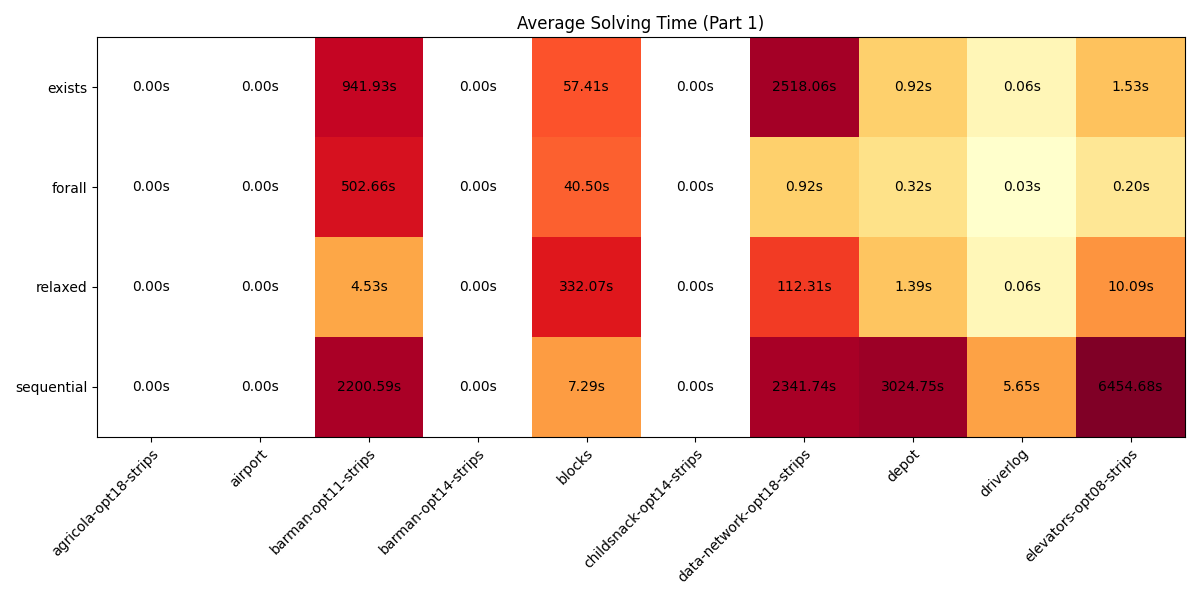
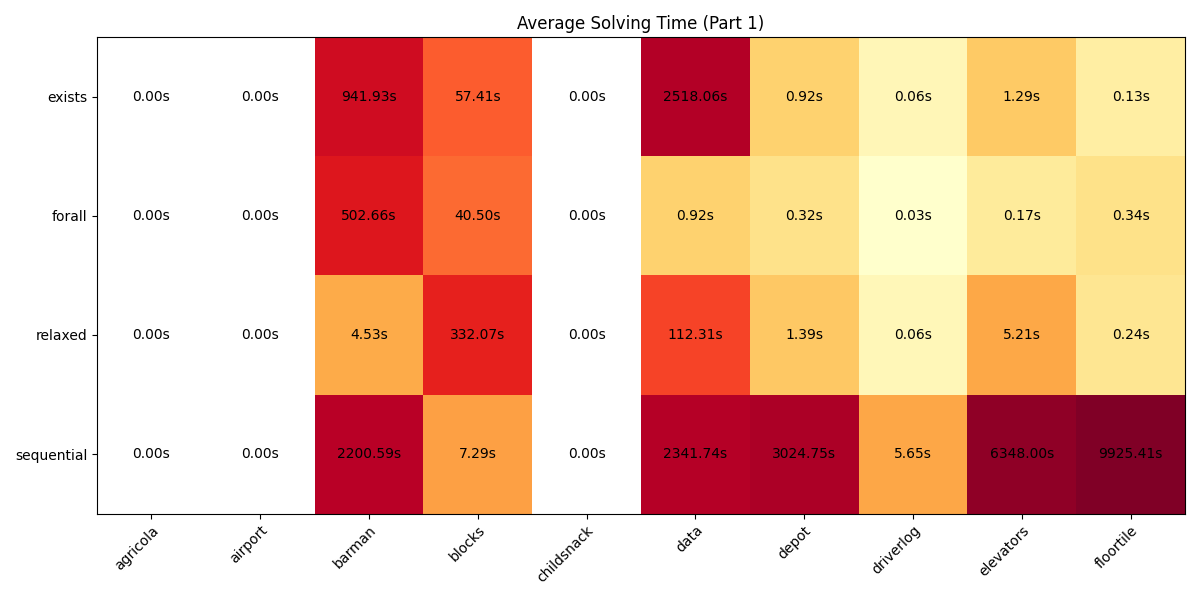
Optimize experiment and add options

diff --git a/experiment.py b/experiment.py
@@ -9,12 +9,12 @@ from bw_cluster_environments import BWUniEnvironment
 from pathlib import Path
 
 from downward.reports.absolute import AbsoluteReport
-from downward.reports.scatter import ScatterPlotReport
 from downward import suites
 from lab.environments import LocalEnvironment
 from lab.experiment import Experiment
 from lab.parser import Parser
 from lab.reports import Attribute
+from lab.experiment import ARGPARSER
 from plot import create_heat_map
 
 class BaseReport(AbsoluteReport):
@@ -29,21 +29,24 @@ class BaseReport(AbsoluteReport):
     ]
 
 REMOTE = BWUniEnvironment.is_present()
-if REMOTE:
-    ENV = BWUniEnvironment(
+ENV = BWUniEnvironment(
     email="levi.klein@stud.uni-heidelberg.de",
     memory_per_cpu="32768", # adapt according to needs, this is per run and should be 100MB larger than the memory limit of the solver(s)
-    )
-else:
-    ENV = LocalEnvironment(processes=1)
+    ) if REMOTE else LocalEnvironment(processes=1)
 
+ARGPARSER.add_argument(
+    "--heuristic", action="store_true", help="run experiment with a heuristic"
+)
+ARGPARSER.add_argument(
+    "--strong-mutex", action="store_true", help="run experiment with stronger mutexes"
+)
+TMPDIR = os.environ.get("TMPDIR", "/tmp")
 BENCHMARKS_DIR = os.environ["DOWNWARD_BENCHMARKS"]
 SCRIPT_DIR = os.path.dirname(os.path.abspath(__file__))
 SUITES = ["agricola-sat18-strips", "airport", "barman-sat11-strips", "barman-sat14-strips", "blocks", "childsnack-sat14-strips", "data-network-sat18-strips", "depot", "driverlog", "elevators-sat08-strips", "elevators-sat11-strips", "floortile-sat11-strips", "floortile-sat14-strips", "freecell", "ged-sat14-strips", "grid", "gripper", "hiking-sat14-strips", "logistics00", "logistics98", "miconic", "movie", "mprime", "mystery", "nomystery-sat11-strips", "openstacks-sat08-strips", "openstacks-sat11-strips", "openstacks-sat14-strips", "openstacks-strips", "organic-synthesis-sat18-strips", "organic-synthesis-split-sat18-strips", "parcprinter-08-strips", "parcprinter-sat11-strips", "parking-sat11-strips", "parking-sat14-strips", "pathways", "pegsol-08-strips", "pegsol-sat11-strips", "pipesworld-notankage", "pipesworld-tankage", "psr-small", "quantum-layout-sat23-strips", "rovers", "satellite", "scanalyzer-08-strips", "scanalyzer-sat11-strips", "snake-sat18-strips", "sokoban-sat08-strips", "sokoban-sat11-strips", "spider-sat18-strips", "storage", "termes-sat18-strips", "tetris-sat14-strips", "thoughtful-sat14-strips", "tidybot-sat11-strips", "tpp", "transport-sat08-strips", "transport-sat11-strips", "transport-sat14-strips", "trucks-strips", "visitall-sat11-strips", "visitall-sat14-strips", "woodworking-sat08-strips", "woodworking-sat11-strips", "zenotravel"]
-ALGORITHM = ["sequential", "forall", "exists", "relaxed"]
+ALGORITHM = ["sequential", "forall", "exists", "guess_and_check", "relaxed"]
 TIME_LIMIT = 1800
 MEMORY_LIMIT = 32600
-
 ATTRIBUTES = [
     "error",
     "result",
@@ -54,7 +57,6 @@ ATTRIBUTES = [
     "clingo_wrong_plan",
     Attribute("solved", absolute=True)
 ]
-
 
 def make_parser():
     def solved(content, props):
@@ -97,6 +99,13 @@ def make_parser():
     parser.add_function(error)
     return parser
 
+def remove_unsat_times(run):
+    unsat_time = run.get("clingo_unsat_time")
+    result = run.get("result")
+    if unsat_time:
+        run["clingo_unsat_time"] = 0 if result == "SATISFIABLE" else unsat_time
+    return True
+
 def create_plots():
     properties_file = Path(SCRIPT_DIR) / "../experiment-eval/properties"
     print(properties_file)
@@ -106,28 +115,50 @@ def create_plots():
         raise FileNotFoundError
     create_heat_map(properties_file)
 
-def remove_unsat_times(run):
-    unsat_time = run.get("clingo_unsat_time")
-    result = run.get("result")
-    if unsat_time:
-        run["clingo_unsat_time"] = 0 if result == "SATISFIABLE" else unsat_time
-    return True
+args, _ = ARGPARSER.parse_known_args()
+
+exp_name = "ParallelASPPlanning"
+if args.heuristic:
+    exp_name += "_with_heuristic"
+if args.strong_mutex:
+    exp_name += "_withstrong_mutex"
 
 exp = Experiment(environment=ENV)
+exp.path = "data/"+exp_name
 exp.add_parser(make_parser())
+
 for algo in ALGORITHM:
     for task in suites.build_suite(BENCHMARKS_DIR, SUITES):
         run = exp.add_run()
         run.add_resource(algo, f"algorithms/{algo}.lp", symlink=True)
-        run.add_command("cpddl_pddl_to_sas", [f"{Path(SCRIPT_DIR)}/../cpddl/bin/pddl", "--fdr-out", "./output.sas", task.domain_file, task.problem_file])
-        run.add_command("plasp_sas_to_asp", [f"{SCRIPT_DIR}/../plasp translate output.sas > output.lp"], shell=True)
-        run.add_command("clingo_solve", [f"{SCRIPT_DIR}/../clingo/clingo --outf=2 --time-limit={TIME_LIMIT} {Path(SCRIPT_DIR) / 'algorithms' / 'common.lp'} {{{algo}}} output.lp > output.json"], shell=True)
+        cppdl_command = [f"{SCRIPT_DIR}/../cpddl/bin/pddl"]
+        if args.strong_mutex:
+            cppdl_command.append("--h2")
+        cppdl_command.extend(["--fdr-out", f"{TMPDIR}/output.sas", task.domain_file, task.problem_file])
+        run.add_command("cpddl_pddl_to_sas", cppdl_command)
+
+        run.add_command("plasp_sas_to_asp", [f"{SCRIPT_DIR}/../plasp translate {TMPDIR}/output.sas > {TMPDIR}/output.lp"], shell=True)
+
+        clingo_command = f"{SCRIPT_DIR}/../clingo/clingo --outf=2 --time-limit={TIME_LIMIT} {SCRIPT_DIR}/algorithms/common.lp {{{algo}}} {TMPDIR}/output.lp"
+        if args.heuristic:
+            clingo_command += f" {SCRIPT_DIR}/algorithms/heuristic.lp"
+        clingo_command += " > output.json"
+        run.add_command("clingo_solve", [clingo_command], shell=True)
+
         run.add_command("extract_occurs", [sys.executable, f"{SCRIPT_DIR}/extract_occurs.py"])
-        run.add_command("parallel_to_seq", [f"{SCRIPT_DIR}/../clingo/clingo --outf=2 output.lp {Path(SCRIPT_DIR) / "algorithms" / "parallel_to_sequential.lp"} plan.lp > sequential.json"], shell=True)
-        run.add_command("lp_to_sas_plan", [sys.executable, f"{SCRIPT_DIR}/lp_to_sas_plan.py"])
-        run.add_command("validate_plan", ["Validate", "-v", task.domain_file, task.problem_file, "sas_plan"])
-        run.add_command("remove_tmp_files", ["rm", "-f", "output.sas", "output.lp", "sequential.json", "plan.lp", "sas_plan"])
-        run.set_property("component_optins", f"clingo --outf=2 --timit-limit={TIME_LIMIT} common.lp {algo} output.lp > output.json")
+        if algo in ["forall", "sequential"]:
+            run.add_command("convert_to_sas_plan", [sys.executable, f"{SCRIPT_DIR}/occurs2sas_plan.py"])
+        else:
+            run.add_command("parallel_to_seq", [f"{SCRIPT_DIR}/../clingo/clingo --outf=2 {TMPDIR}/output.lp {SCRIPT_DIR}/algorithms/parallel_to_sequential.lp {TMPDIR}/plan.lp > {TMPDIR}/sequential.json"], shell=True)
+            run.add_command("convert_to_sas_plan", [sys.executable, f"{SCRIPT_DIR}/convert2sas_plan.py"])
+        run.add_command("validate_plan", ["Validate", "-v", task.domain_file, task.problem_file, f"{TMPDIR}/sas_plan"])
+
+        cpddl_opts = "--h2" if args.strong_mutex else ""
+        clingo_opts = f"--outf=2 --time-limit={TIME_LIMIT}"
+        if args.heuristic:
+            clingo_opts += " heuristic.lp"
+        run.set_property("cpddl_options", cpddl_opts)
+        run.set_property("clingo_options", clingo_opts)
         run.set_property("domain", task.domain)
         run.set_property("problem", task.problem)
         run.set_property("algorithm", algo)

diff --git a/plot.py b/plot.py
@@ -10,15 +10,16 @@ def get_algo_stats(data):
     for run_data in data.values():
         algo = run_data.get("algorithm")
         domain = run_data.get("domain")
+        grouped_domain = domain.split("-")[0]
         problem = run_data.get("problem")
         result = run_data.get("solved", 0)
         time = run_data.get("clingo_total_time", 0) if result == 1 else 0
         if algo not in results:
             results[algo] = {}
-        if domain not in results[algo]:
-            results[algo][domain] = 0
+        if grouped_domain not in results[algo]:
+            results[algo][grouped_domain] = 0
 
-        results[algo][domain] += result
+        results[algo][grouped_domain] += result
 
         key = (domain, problem)
         if key not in problem_solutions:
@@ -27,9 +28,10 @@ def get_algo_stats(data):
             problem_solutions[key][algo] = time
 
     for (domain, _) in problem_solutions.keys():
-        if domain not in num_problems:
-            num_problems[domain] = 0
-        num_problems[domain] +=1
+        grouped_domain = domain.split("-")[0]
+        if grouped_domain not in num_problems:
+            num_problems[grouped_domain] = 0
+        num_problems[grouped_domain] +=1
 
     return results, problem_solutions, num_problems
 
@@ -37,12 +39,13 @@ def get_algo_stats(data):
 def filter_times(problem_solutions, algos):
     filtered_times = {algo: {} for algo in algos}
     for (domain, _), times in problem_solutions.items():
+        grouped_domain = domain.split("-")[0]
         if len(times) == len(algos):
             for algo in algos:
                 if algo in times:
-                    if domain not in filtered_times[algo]:
-                        filtered_times[algo][domain] = []
-                    filtered_times[algo][domain].append(times[algo])
+                    if grouped_domain not in filtered_times[algo]:
+                        filtered_times[algo][grouped_domain] = []
+                    filtered_times[algo][grouped_domain].append(times[algo])
     return filtered_times
 
 

diff --git a/extract_occurs.py b/extract_occurs.py
@@ -1,18 +1,16 @@
 import json
-import re
 import os
 from pathlib import Path
 
+output = Path("output.json")
+if not output.exists():
+    raise FileNotFoundError(f"{output} not found.")
 
-data = {}
-try:
-    if not os.path.exists("output.json"):
-        raise FileNotFoundError
-    with open("output.json", 'r') as f:
-        data = json.load(f)
-except (json.JSONDecodeError, IOError) as e:
-        print(f"Error reading properties file: {e}")
-values = data["Call"][-1]["Witnesses"][0]["Value"]
-with open("plan.lp", "w") as f:
-    for value in values:
-        f.write(f"{value}.\n")
+values = json.loads(output.read_text())["Call"][-1]["Witnesses"][0]["Value"]
+if not values:
+    raise ValueError("No values found in output.json.")
+
+plan_path = Path(os.environ.get("TMPDIR", "/tmp")) / "plan.lp"
+with plan_path.open("w") as f:
+    for v in values:
+        f.write(f"{v}.\n")

diff --git a/convert2sas_plan.py b/convert2sas_plan.py
@@ -1,0 +1,20 @@
+import json
+import os
+import re
+from pathlib import Path
+
+seq_path = Path(os.environ.get("TMPDIR", "/tmp")) / "sequential.json"
+if not seq_path.exists():
+    raise FileNotFoundError(f"{seq_path} not found.")
+
+values = json.loads(seq_path.read_text())["Call"][-1]["Witnesses"][0]["Value"]
+if not values:
+    raise ValueError("No values found in sequential.json.")
+
+sas_plan = Path(os.environ.get("TMPDIR", "/tmp")) / "sas_plan"
+with sas_plan.open("w") as f:
+    for value in values:
+        strings = re.findall(r'"([^"]*)"', value)
+        time_match = re.search(r'\),(\d+)\)$', value)
+        timestep = int(time_match.group(1)) if time_match else 0
+        f.write(f"{timestep}:" + "(" + " ".join(strings) + ")" + "\n")

diff --git a/occurs2sas_plan.py b/occurs2sas_plan.py
@@ -1,0 +1,18 @@
+import os
+from pathlib import Path
+import re
+
+plan = Path(os.environ.get("TMPDIR", "/tmp")) / "plan.lp"
+if not plan.exists():
+    raise FileNotFoundError(f"{plan} not found.")
+
+lines = plan.read_text().splitlines()
+sas_plan = Path(os.environ.get("TMPDIR", "/tmp")) / "sas_plan"
+with sas_plan.open("w") as f:
+    for line in lines:
+        match = re.search(r'occurs\(action\(\(([^)]+)\)\),(\d+)\)', line)
+        if match:
+            action_args = match.group(1)
+            timestep = match.group(2)
+            args = [arg.strip().strip('"') for arg in action_args.split(",")]
+            f.write(f"{timestep}:(" + " ".join(args) +")\n")
